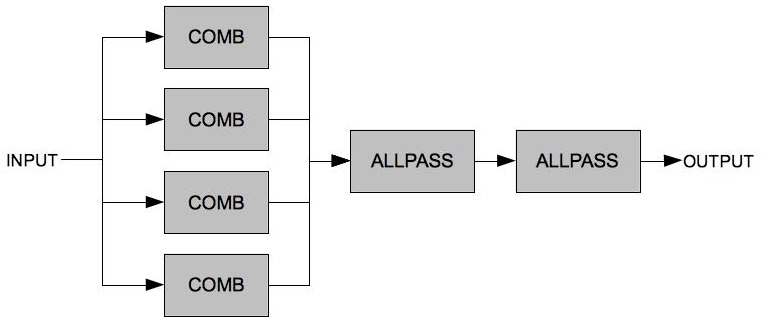
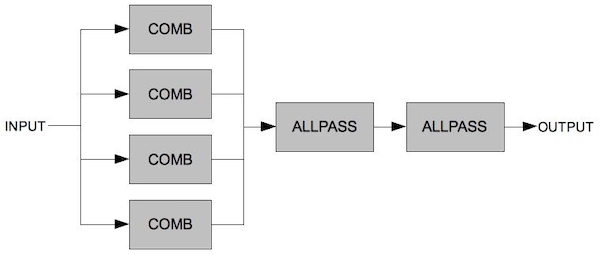
fix: shrink image a bit to fix too large dimensions

diff --git a/pandoc/build_pdf.js b/pandoc/build_pdf.js
@@ -12,13 +12,15 @@ const {
 } = require("./constants");
 
 const allChapters = R.reject(
-  md => md.includes("00--aa-toc.md"),
+  (md) => md.includes("00--aa-toc.md"),
   fg.sync([`${BOOK_DIRECTORY}/*.md`], { dot: false })
 ).sort();
 
 // const allChapters = R.take(10, allChapters_);
 
 const tmpDest = path.join(tmpdir(), "csound_flossmanual_single.md");
+
+console.log({ tmpDest });
 
 const deleteLinesHack = [
   "![](https://gogins.github.io/csound-extended/scrims.html){width=100% height=600px object-fit=contain}",
@@ -34,8 +36,8 @@ R.pipe(
       chapter.replace(/\.\.\/resources\//g, `${RESOURCES_DIRECTORY}/`)
     );
   }, ""),
-  x => R.reduce((a, v) => a.replace(v, ""), x, deleteLinesHack),
-  singleMd => fs.writeFileSync(tmpDest, singleMd)
+  (x) => R.reduce((a, v) => a.replace(v, ""), x, deleteLinesHack),
+  (singleMd) => fs.writeFileSync(tmpDest, singleMd)
 )(allChapters);
 
 execSync(

diff --git a/pandoc/latex/template.tex b/pandoc/latex/template.tex
@@ -58,7 +58,7 @@
 
 \usepackage[sfdefault]{roboto}
 \usepackage{FiraMono}
-\setmonofont{Fira Mono}
+\setmonofont{FiraMono-Regular.otf}
 
 \usepackage{caption}
 

diff --git a/book/08-a-open-sound-control.md b/book/08-a-open-sound-control.md
@@ -586,7 +586,7 @@ The incoming x position is used for both, the volume (dB) and the pitch (MIDI). 
 
 **_EXAMPLE 08A07_P5_Csound_OSC.csd_**
 
-```
+```csound
 <CsoundSynthesizer>
 <CsOptions>
 -odac
